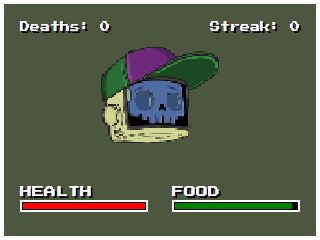
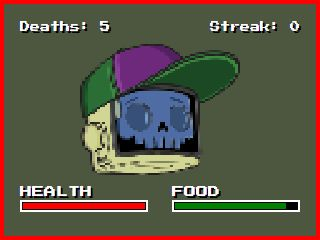
final

diff --git a/public/index.html b/public/index.html
@@ -16,11 +16,12 @@
             background-color: rgb(77 87 63 / var(--tw-bg-opacity, 1));
         }
 
-        /* Pixel Borders */
+        /* Pixel Borders - Controlled via JavaScript */
         .pixel-border {
             image-rendering: pixelated;
             border: 4px solid white;
             box-shadow: 2px 2px 0px black;
+            transition: border-color 0.2s ease-in-out; /* Smooth breathing effect */
         }
 
         /* Minimalist Bars */
@@ -86,11 +87,11 @@
     </style>
 </head>
 <body class="w-[320px] h-[240px] flex items-center justify-center overflow-hidden">
-    <div class="absolute flex flex-row justify-between z-10 top-5 px-5 w-[320px] bg-green">
+    <div class="absolute flex flex-row justify-between z-10 top-5 px-5 w-[320px]">
         <p id="death-count" class="text-[10px] text-white">Deaths: <span id="death-value">10</span></p>
         <p id="streak-count" class="text-[10px] text-white">Streak: <span id="streak-value">0</span></p>
     </div>
-    <div class="relative w-full h-full flex flex-col items-center justify-center pixel-border">
+    <div id="border-container" class="relative w-full h-full flex flex-col items-center justify-center pixel-border">
 
         <!-- Red Flash for Death -->
         <div id="red-flash" class="red-flash"></div>
@@ -105,7 +106,7 @@
 
         <!-- Character -->
         <div id="character-container" class="absolute top-10 transform flex justify-center">
-            <img id="character-img" class="h-24 character" src="pfp.png"/>
+            <img id="character-img" class="h-26 character" src="pfp.png"/>
         </div>
 
         <!-- Health Bar -->
@@ -125,54 +126,83 @@
         </div>
     </div>
 
-<script>
-   async function fetchGameData() {
-        try {
-            const response = await fetch('/button-data');
-            if (!response.ok) throw new Error("Failed to fetch game data.");
-            
-            const data = await response.json();
+    <script>
+            async function fetchGameData() {
+    try {
+        const response = await fetch('/button-data');
+        if (!response.ok) throw new Error("Failed to fetch game data.");
+        
+        const data = await response.json();
+        
+        // Choose a random movement type based on breath offset
+        let movementType = Math.abs(data.breathOffset) % 4; // 0,1,2,3 cycle
+        let bobbleAmount = data.breathOffset * 2;  // Standard bobble
+        let rotation = data.breathOffset * 1.5; // Tilt effect
+        let scaleAmount = 1 + (data.breathOffset * 0.005); // Subtle scale pulse
+        let translateX = 0;  // Default horizontal shift
 
-            // Breathing effect
-            document.getElementById('character-container').style.transform = `translateY(${data.breathOffset * 3}px)`;
-
-            // Update bars
-            document.getElementById('health-bar').style.width = `${data.health}%`;
-            document.getElementById('food-bar').style.width = `${data.food}%`;
-            // Add this to `fetchGameData()` in UI script:
-            document.getElementById('death-value').textContent = data.deathCount;
-            document.getElementById('streak-value').textContent = data.dayStreak;
-
-
-            // Elements
-            let wastedText = document.getElementById('wasted-text');
-            let redFlash = document.getElementById('red-flash');
-            let reviveCount = document.getElementById('revive-count');
-
-            if (data.health <= 0) {
-                // Dead state
-                wastedText.style.opacity = "1";
-                redFlash.style.opacity = "0.5";  
-                wastedText.classList.add("flicker");
-
-                // Convert revive time (MM:SS)
-                reviveCount.textContent = data.reviveTimeRemaining;
-
-            } else {
-                // Revived state
-                wastedText.style.opacity = "0";
-                redFlash.style.opacity = "0";  
-                wastedText.classList.remove("flicker");
-            }
-
-        } catch (error) {
-            console.error("Error fetching game data:", error);
+        switch (movementType) {
+            case 0: 
+                // **FLOAT**: Moves slightly up & down
+                translateX = Math.sin(data.breathOffset) * 3;
+                break;
+            case 1: 
+                // **TILT WIGGLE**: Tilts more aggressively
+                rotation = Math.sin(data.breathOffset * 1.8) * 6;
+                translateX = Math.cos(data.breathOffset * 1.2) * 2;
+                break;
+            case 2: 
+                // **EXPAND & SHRINK**: Pulse effect
+                scaleAmount = 1 + Math.sin(data.breathOffset * 2) * 0.01;
+                break;
+            case 3:
+                // **SIDE-STEP**: Moves left & right randomly
+                translateX = (data.breathOffset % 2 === 0) ? -2 : 2;
+                break;
         }
+
+        // Apply transformation
+        document.getElementById('character-container').style.transform = 
+            `translate(${translateX}px, ${bobbleAmount}px) rotate(${rotation}deg) scale(${scaleAmount})`;
+
+        // Sync Border Color with Movement
+        let borderColors = ["red", "orange", "yellow", "green", "blue", "indigo", "violet"];
+        let colorIndex = Math.abs(data.breathOffset) % borderColors.length;
+        document.getElementById('border-container').style.borderColor = borderColors[colorIndex];
+
+        // Update health and food bars
+        document.getElementById('health-bar').style.width = `${data.health}%`;
+        document.getElementById('food-bar').style.width = `${data.food}%`;
+
+        // Update Death & Streak Count
+        document.getElementById('death-value').textContent = data.deathCount;
+        document.getElementById('streak-value').textContent = data.dayStreak;
+
+        // Wasted screen logic
+        let wastedText = document.getElementById('wasted-text');
+        let redFlash = document.getElementById('red-flash');
+        let reviveCount = document.getElementById('revive-count');
+
+        if (data.health <= 0) {
+            wastedText.style.opacity = "1";
+            redFlash.style.opacity = "0.5";  
+            wastedText.classList.add("flicker");
+            reviveCount.textContent = data.reviveTimeRemaining;
+        } else {
+            wastedText.style.opacity = "0";
+            redFlash.style.opacity = "0";  
+            wastedText.classList.remove("flicker");
+        }
+
+    } catch (error) {
+        console.error("Error fetching game data:", error);
     }
+}
 
-    // Refresh every 100ms for smooth animation
-    setInterval(fetchGameData, 100);
-</script>
+// Refresh every 100ms for smooth animation
+setInterval(fetchGameData, 100);
 
+    </script>
+    
 </body>
 </html>
